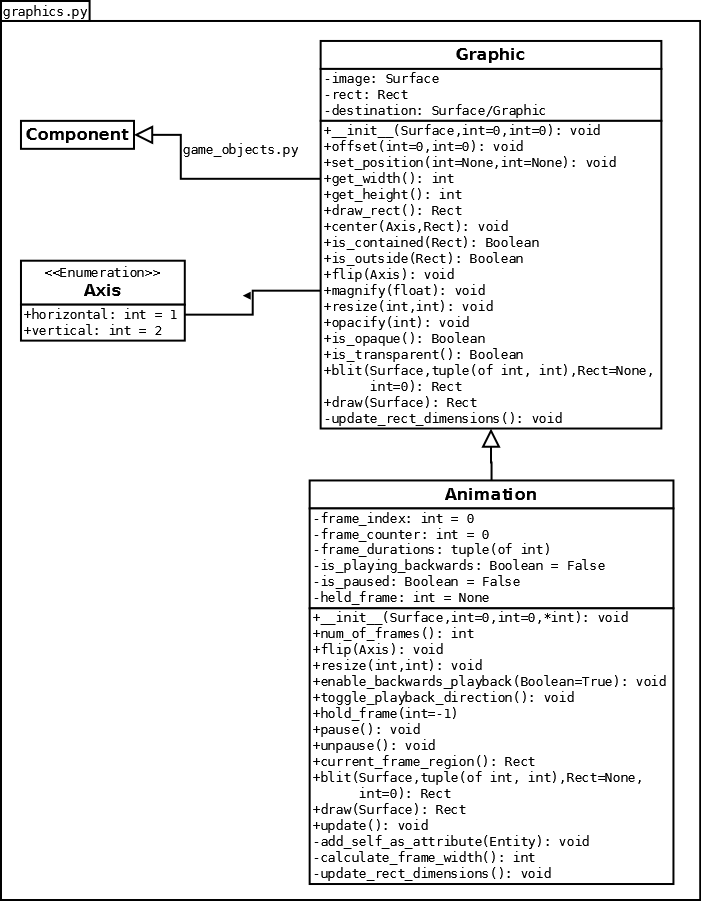
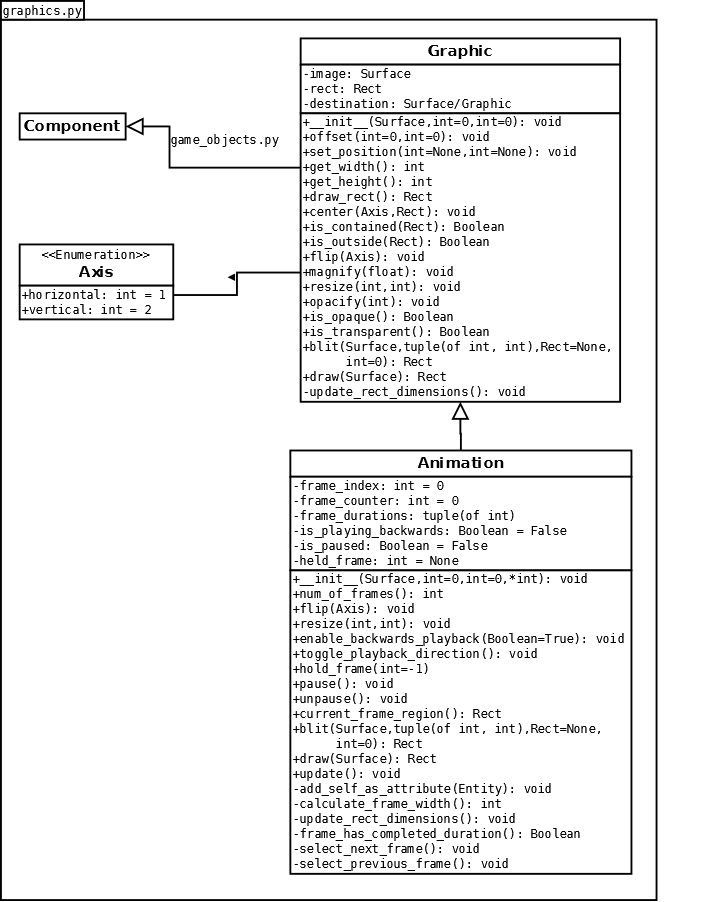
Animation: Write update()
Support methods were added for legibility.

Changed region(s): [[0.0, 0.0, 1.0, 1.0]]

diff --git a/materials/graphics.py b/materials/graphics.py
@@ -533,3 +533,41 @@ class Animation(Graphic):
         """
         return destination.blit(self._image, self.draw_rect(),
                                 self.current_frame_region())
+
+    def update(self):
+        """Update this Animation's processes.
+
+        This method should be called once every update cycle.
+        """
+        if not self._is_paused:
+            self._frame_counter += 1
+
+            if self._frame_has_completed_duration():
+                if self._is_playing_backwards:
+                    self._select_previous_frame()
+                else:
+                    self._select_next_frame()
+
+    def _frame_has_completed_duration(self):
+        """Return a Boolean indicating whether the current frame has
+        been displayed for the appropriate amount of time.
+        """
+        return self._frame_counter >= self._frame_durations[self._frame_index]
+
+    def _select_next_frame(self):
+        """Set the displayed frame to the next one in the sprite sheet.
+        """
+        self._frame_index += 1
+
+        # After the last frame, loop back to the first frame.
+        if self._frame_index >= self.num_of_frames():
+            self._frame_index = 0
+
+    def _select_previous_frame(self):
+        """Set the displayed frame to the previous one in the sprite
+        sheet.
+        """
+        self._frame_index -= 1
+        # After the first frame, loop back to the last frame.
+        if self._frame_index < 0:
+            self._frame_index = self.num_of_frames() - 1
